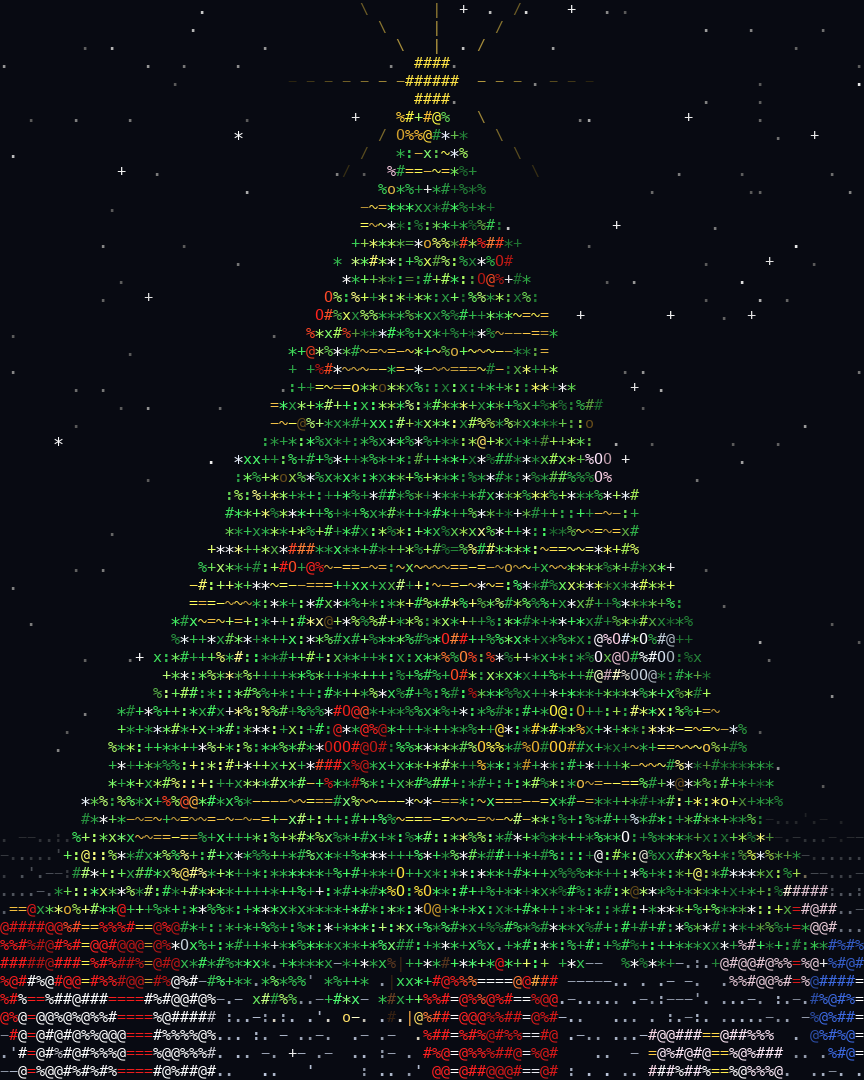
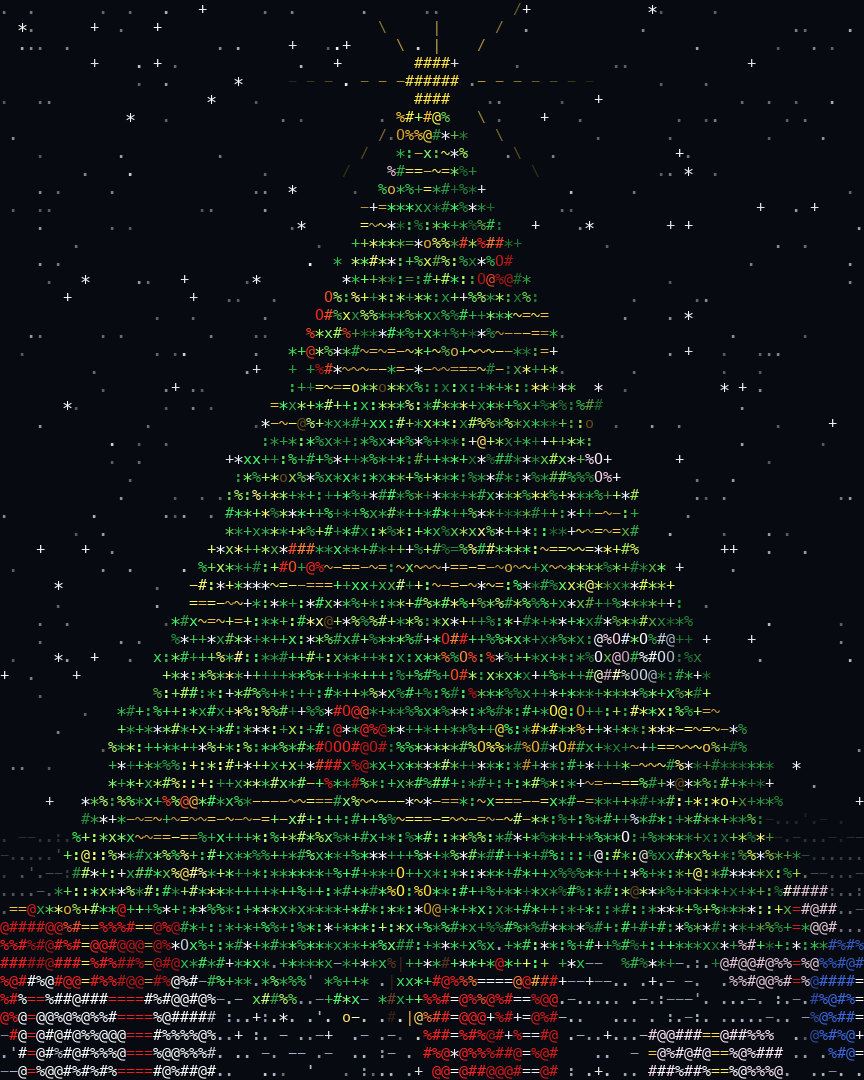
Heavy swirling snow with gusts

diff --git a/tree.py b/tree.py
@@ -121,7 +121,7 @@ def make_stars(W, H):
 # falling snow (screen space): depth b -> near flakes are big, fast and pass in front of the tree
 SNOW = {}
 def make_snow(W, H):
-    k = W * H // 50
+    k = W * H // 12
     SNOW.update(x=rng.random(k) * W, y=rng.random(k) * H, b=rng.random(k) ** 2, ph=rng.random(k) * TAU)
 
 # ---------------------------------------------------------------- render
@@ -164,8 +164,10 @@ def frame(t, ang, W, H):
             grid[by, bx] = "+" if b > 0.93 and tw > 0.8 else "."
             rgb[by, bx] = 0.35 + 0.65 * b * tw
     # snow
-    b = SNOW["b"]; fy = (SNOW["y"] + t * (1.5 + 5.0 * b)) % H
-    fx = (SNOW["x"] + 2.5 * np.sin(t * (0.5 + b) + SNOW["ph"]) + t * 0.6) % W
+    b = SNOW["b"]; ph = SNOW["ph"]
+    gust = 4.0 * math.sin(t * 0.35) + 2.0 * math.sin(t * 1.1 + 1)            # shared wind, changes direction
+    fy = (SNOW["y"] + t * (2.0 + 7.0 * b) + 1.5 * np.sin(t * 2.0 + ph)) % H  # tumble up and down a little
+    fx = (SNOW["x"] + (3 + 4 * b) * np.sin(t * (0.8 + b) + ph) + gust * (0.5 + b) * t * 0.4) % W
     fx, fy = fx.astype(int), fy.astype(int)
     near = b > 0.55
     far = ~near & (grid[fy, fx] == " ")
